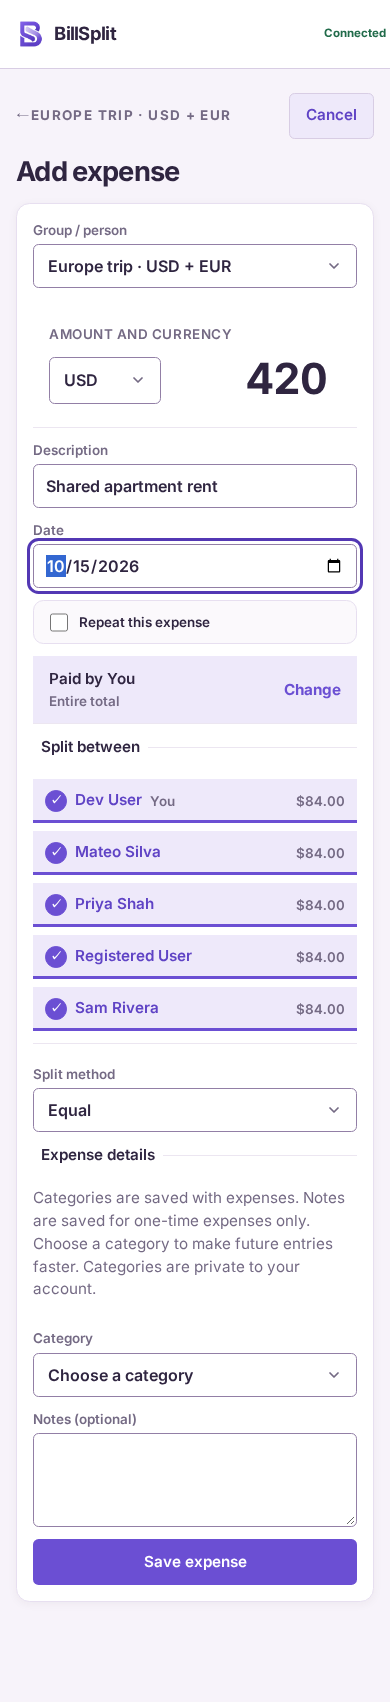
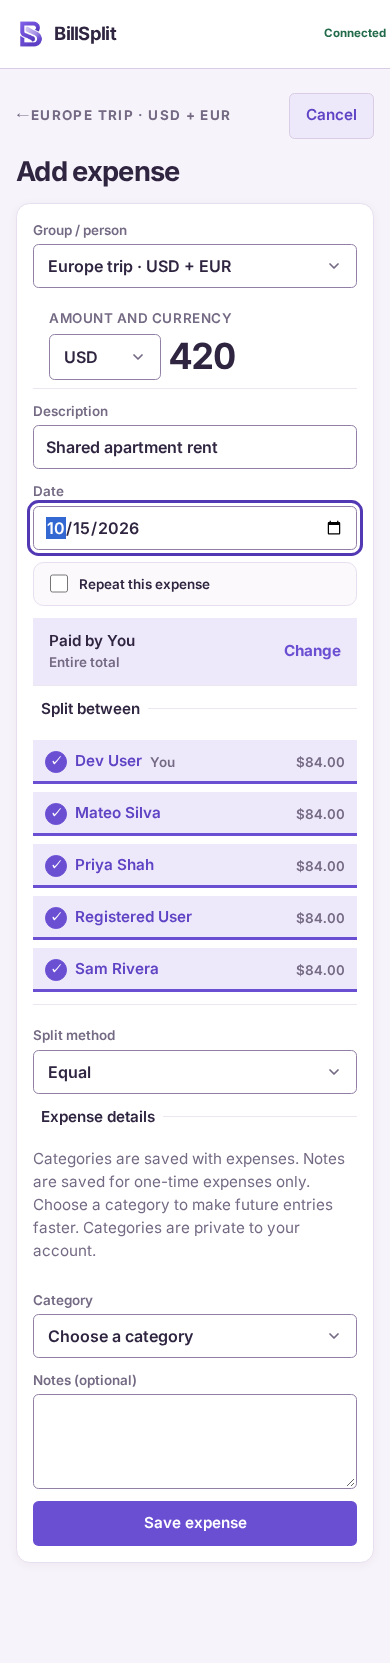
Compact expense amount and currency layout

diff --git a/tests/e2e/expense-amount-layout.spec.ts b/tests/e2e/expense-amount-layout.spec.ts
@@ -1,0 +1,86 @@
+import { test, expect, newAuthenticatedContext, BASE_URL } from './fixtures';
+
+for (const width of [320, 390, 767, 768, 895, 896, 1440]) {
+  test(`expense amount stays compact with native editing access at ${width}px`, async ({ browser }) => {
+    const context = await newAuthenticatedContext(browser, undefined, { width, height: 1024 });
+    const page = await context.newPage();
+    try {
+      await page.goto(`${BASE_URL}/groups/00000000-0000-4000-8000-000000003002/expense/new`);
+      const amount = page.getByLabel('Expense amount');
+      await expect(amount).toBeVisible();
+      for (const [length, value] of [['normal', '420.00'], ['normal', '999999.99'], ['long', '123456789.01'], ['long', '123456789012.34'], ['very-long', '90071992547409.91']]) {
+        await amount.fill(value);
+        await expect(amount).toHaveAttribute('data-amount-length', length);
+        const geometry = await amount.evaluate((input) => {
+          const field = input.parentElement!;
+          const currency = field.querySelector('select')!;
+          const label = field.querySelector('span')!;
+          const amountRect = input.getBoundingClientRect();
+          const currencyRect = currency.getBoundingClientRect();
+          const style = getComputedStyle(input);
+          return {
+            alignment: style.textAlign,
+            fontSize: parseFloat(style.fontSize),
+            amount: { x: amountRect.x, y: amountRect.y, right: amountRect.right, height: amountRect.height },
+            currency: { x: currencyRect.x, y: currencyRect.y, right: currencyRect.right, height: currencyRect.height },
+            labelGap: Math.min(amountRect.y, currencyRect.y) - label.getBoundingClientRect().bottom,
+            fieldHeight: field.getBoundingClientRect().height,
+            overflow: document.documentElement.scrollWidth - window.innerWidth,
+          };
+        });
+        expect(geometry.alignment).toBe('left');
+        expect(geometry.amount.height).toBeGreaterThanOrEqual(44);
+        expect(geometry.currency.height).toBeGreaterThanOrEqual(44);
+        expect(geometry.amount.right).toBeLessThanOrEqual(width);
+        expect(geometry.overflow).toBeLessThanOrEqual(1);
+        expect(geometry.labelGap).toBeLessThanOrEqual(8);
+        if (length === 'very-long') {
+          expect(geometry.amount.y).toBeGreaterThan(geometry.currency.y);
+          expect(geometry.amount.x).toBeCloseTo(geometry.currency.x, 0);
+        } else {
+          expect(geometry.amount.x - geometry.currency.right).toBeGreaterThanOrEqual(0);
+          expect(geometry.amount.x - geometry.currency.right).toBeLessThanOrEqual(8);
+          expect(geometry.fieldHeight).toBeLessThan(100);
+          if (width >= 768 && length === 'normal') expect(geometry.fontSize).toBe(44);
+        }
+        await expect(amount).toHaveValue(value);
+        // The decimal input is native text (no type attribute), so oversized
+        // values may scroll internally without losing their editable contents.
+        expect(await amount.evaluate((input: HTMLInputElement) => input.type)).toBe('text');
+        await amount.blur();
+        const text = await amount.evaluate((input: HTMLInputElement) => {
+          const style = getComputedStyle(input);
+          const canvas = document.createElement('canvas');
+          const context = canvas.getContext('2d')!;
+          context.font = `${style.fontWeight} ${style.fontSize} ${style.fontFamily}`;
+          const textWidth = context.measureText(input.value).width
+            + (parseFloat(style.letterSpacing) || 0) * input.value.length;
+          return {
+            fits: textWidth <= input.clientWidth - parseFloat(style.paddingLeft) - parseFloat(style.paddingRight) - 2,
+            scrollWidth: input.scrollWidth,
+            clientWidth: input.clientWidth,
+            scrollLeft: input.scrollLeft,
+          };
+        });
+        // Chromium resets the left-aligned text to its start on blur.
+        expect(text.scrollLeft).toBeLessThanOrEqual(1);
+        if (text.fits) {
+          expect(text.scrollWidth).toBeLessThanOrEqual(text.clientWidth + 2);
+        } else {
+          await amount.focus();
+          await amount.press('Home');
+          await expect.poll(() => amount.evaluate((input: HTMLInputElement) => input.selectionStart)).toBe(0);
+          await expect.poll(() => amount.evaluate((input) => input.scrollLeft)).toBeLessThanOrEqual(1);
+          await amount.press('End');
+          await expect.poll(() => amount.evaluate((input: HTMLInputElement) => input.selectionStart)).toBe(value.length);
+          await expect(amount).toHaveValue(value);
+        }
+      }
+      // Returning to a typical amount restores the inline layout.
+      await amount.fill('12.50');
+      await expect(page.locator('.amount-field')).toHaveClass(/amount-field--normal/);
+    } finally {
+      await context.close();
+    }
+  });
+}

diff --git a/src/app/theme/transaction-forms.css b/src/app/theme/transaction-forms.css
@@ -636,13 +636,19 @@ input[inputmode="decimal"] {
 }
 
 .route-view--expense .amount-field {
-  min-height: 8rem;
+  --text-amount: clamp(2.25rem, 7vw, 2.75rem);
+  min-height: 0;
   align-content: center;
+  row-gap: var(--space-1);
   border: 0;
   border-bottom: 1px solid var(--color-divider);
   border-radius: 0;
   background: transparent;
-  padding: var(--space-4) var(--space-5);
+  padding: var(--space-2) 0;
+}
+
+.route-view--expense .amount-field > input {
+  text-align: left;
 }
 
 .route-view--expense .amount-field > span {

diff --git a/src/app/theme/responsive.css b/src/app/theme/responsive.css
@@ -405,10 +405,6 @@
     display: none;
   }
 
-.route-view--expense .amount-field {
-    min-height: 9rem;
-  }
-
   .modal-sheet:has(.payer-list) {
     align-self: center;
     border-radius: var(--radius-lg);

diff --git a/docs/responsive-audit-matrix.md b/docs/responsive-audit-matrix.md
@@ -41,6 +41,21 @@ credit and shell surfaces without replacing those refund-specific checks.
 
 ### Expense date and recurrence disclosure
 
+The expense-only amount row is left aligned beside currency, with a 4px label
+gap and reduced vertical padding (no added surface or split information). Normal
+desktop amounts use 44px type; existing long-amount sizing and very-long stacked
+fallback remain unchanged. `expense-amount-layout.spec.ts` checks normal, long,
+and very-long values at **320, 390, 767, 768, 895, 896, and 1440px**, including
+44px touch targets, inline proximity, stacked fallback, no page overflow, and
+returning to normal input. Boundary values of 9 and 15 characters retain the
+existing normal/long thresholds. Oversized inline values can still scroll
+internally in the native text input, especially at 320px; full simultaneous
+visibility is not guaranteed. The focused Chromium test checks no internal
+overflow for fitting text, complete value retention and Home/End caret access
+for oversized text, and left-aligned text returning to its start on blur.
+The date/recurrence audits below retain coverage of
+disclosures and loading, cached/offline, empty, and error states.
+
 The expense form uses native DOM order: Group/person (new entries), Amount,
 Description, Date/Start date, Repeat (new entries), revealed recurrence settings,
 payer and split, expense details, submit. The same date input stays mounted when
